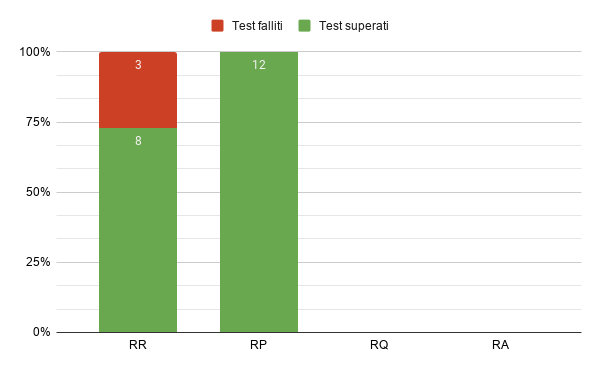
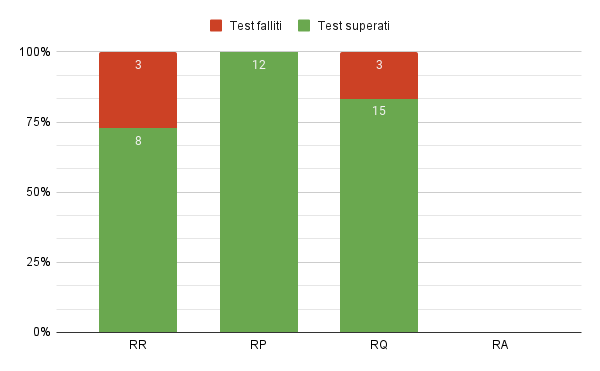
Aggiunti test superati/falliti RQ

diff --git a/esterni/piano_di_qualifica/src/5_resoconto_attivita.tex b/esterni/piano_di_qualifica/src/5_resoconto_attivita.tex
@@ -196,23 +196,44 @@ Qui di seguito verranno presentati i resoconti relativi ai controlli di qualità
 	\begin{longtable}{|p{4cm}|p{4cm}|c|c|c|}
 		\hline
 		\rowcolor{lightgray}
-		\textbf{Obiettivo} & \textbf{Metrica} & \textbf{Risultato} & \textbf{Accettabile} & \textbf{Esito} \\
+		\textbf{Obiettivo}              & \textbf{Metrica}              & \textbf{Risultato}        & \textbf{Accettabile} & \textbf{Esito} \\
 		\hline
 		\endfirsthead
 
 		\hline
 		\rowcolor{lightgray}
-		\textbf{Obiettivo} & \textbf{Metrica} & \textbf{Risultato} & \textbf{Accettabile} & \textbf{Esito} \\
+		\textbf{Obiettivo}              & \textbf{Metrica}              & \textbf{Risultato}        & \textbf{Accettabile} & \textbf{Esito} \\
 		\hline
 		\endhead
 
 		\hline
 		\rowcolor{white}
-		\multicolumn{5}{|c|}{\emph{Continua alla pagina successiva...}}                                    \\
+		\multicolumn{5}{|c|}{\emph{Continua alla pagina successiva...}}                                                                     \\
 		\hline
 		\endfoot
 		\endlastfoot
-		TODO               & TODO             & TODO               & TODO                 & TODO           \\
+
+		OPR01 Scadenze                  & MPR01 Varianza pianificazione & $>$ giorni                & $\leq$ 4             & Non Superato   \\
+		OPR02 Budget parziale intaccato & MPR02 Varianza costi parziali & $>$ 5\%                   & 0\%                  & Non Superato   \\
+		OPR03 Budget finale intaccato   & MPR03 Varianza costi totali   & Budget totale intatto     & 0\%                  & Superato       \\
+		OPR04 Versionamento             & MPR04 Versionamento           & $>$25                     & $>$25                & Superato       \\
+		OPR07 Rischi non previsti       & MPR07 Rischi inattesi         & $>$2                      & 2                    & Non Superato   \\
+		OPR08 Rispetto obiettivi        & MPR08 Obiettivi soddisfatti   & 100\%                     & 100\%                & Superato       \\
+		OPR09 Rispetto delle norme      & MPR09 Norme rispettate        & 100\%                     & 100\%                & Superato       \\
+		OPR12 Verifica documenti        & MPR10 Frequenza controllo     & Ogni Milestone e modifica & Ogni Milestone       & Superato       \\
+
+		OPD01 Leggibilità testo         & MPD01 Indice di Gulpease      & 73                        & \(\ge 60\)           & Superato       \\
+		OPD02 Correttezza ortografica   & MPD02 Errori ortografici      & 0                         & 0                    & Superato       \\
+
+		OPS01 Assenza di bug            & MPS01 Presenza di bug         & 0                         & 0                    & Superato       \\
+		OPS02 Assenza di errori         & MPS02 Densità di errori       & 0                         & 10\%                 & Superato       \\
+		OPS03 Assenza file anonimi      & MPS03 File senza intestazione & 0                         & 0                    & Superato       \\
+		OPS04 Usabilità del prodotto    & MPS04 Usabilità del prodotto  & \(\leq5\) click              & \(\leq10\) click     & Superato       \\
+		OPS05 Superamento test          & MPS05 Test superati           & \(\ge 100\%\)             & \(\ge 80\%\)         & Superato       \\
+		OPS06 Copertura test            & MPS06 Line coverage           & \(\ge 95\%\)              & \(\ge 80\%\)         & Superato       \\
+		OPS07 Manutenibilità codice     & MPS07  Duplicazione codice    & \(\leq 5\%\)              & \(\leq 10\%\)        & Superato       \\
+		OPS08 Leggibilità               & MPS08 Densità commenti        & \(\leq 5\%\)              & \(\leq 10\%\)        & Superato       \\
+
 		\hline
 		\rowcolor{white}
 		\caption{Esiti test fase di Revisione di Qualifica}
